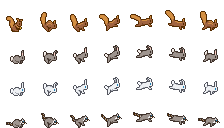
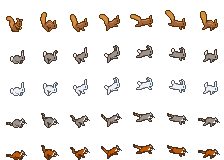
add red racoon

diff --git a/FogMod/FogMod.Utils/Tests/CritterzLogicTests.cs b/FogMod/FogMod.Utils/Tests/CritterzLogicTests.cs
@@ -146,6 +146,8 @@ public class CritterzLogicTests
     {
         Assert.Equal(Constants.SquirrelRow, Utils.CritterzLogic.PickSkin(0, false));
         Assert.Equal(Constants.RaccoonRow, Utils.CritterzLogic.PickSkin(2, true));
+        Assert.Equal(Constants.RedRaccoonRow, Utils.CritterzLogic.PickSkin(3, false));
+        Assert.Equal(Constants.RedRaccoonRow, Utils.CritterzLogic.PickSkin(3, true));
         Assert.Equal(Constants.WhiteBunnyRow, Utils.CritterzLogic.PickSkin(1, true));
         Assert.Equal(Constants.GreyBunnyRow, Utils.CritterzLogic.PickSkin(1, false));
     }
@@ -174,6 +176,9 @@ public class CritterzLogicTests
                 Assert.Contains(id, nuts);
             foreach (string id in Utils.CritterzLogic.RollLootToDrop(
                 Constants.RaccoonRow, seed % 2 == 0, new Random(seed)))
+                Assert.Contains(id, trash);
+            foreach (string id in Utils.CritterzLogic.RollLootToDrop(
+                Constants.RedRaccoonRow, seed % 2 == 0, new Random(seed)))
                 Assert.Contains(id, trash);
             foreach (string id in Utils.CritterzLogic.RollLootToDrop(99, false, new Random(seed)))
                 Assert.Contains(id, trash);

diff --git a/FogMod/FogMod.Utils/CritterzLogic.cs b/FogMod/FogMod.Utils/CritterzLogic.cs
@@ -113,13 +113,14 @@ public static class CritterzLogic
         return 0;
     }
 
-    // Skin only: squirrel, bunny (grey/white by season), or raccoon row.
+    // Skin only: squirrel, bunny (grey/white by season), raccoon, or red raccoon row.
     public static int PickSkin(int roll, bool isWinter)
     {
         return roll switch
         {
             0 => Constants.SquirrelRow,
             2 => Constants.RaccoonRow,
+            3 => Constants.RedRaccoonRow,
             _ => isWinter ? Constants.WhiteBunnyRow : Constants.GreyBunnyRow,
         };
     }
@@ -150,6 +151,7 @@ public static class CritterzLogic
                     loot.Add(nuts[rng.Next(nuts.Length)]);
                 break;
             case Constants.RaccoonRow:
+            case Constants.RedRaccoonRow:
             default:
                 string[] trash = { "168", "169", "170", "171", "172" };
                 for (int i = 0, n = rng.Next(0, maxCommons); i < n; i++)

diff --git a/FogMod/Constants.cs b/FogMod/Constants.cs
@@ -64,12 +64,13 @@ public static class Constants
 
     // Critterz constants (loop mirrors the grouse: hide, trigger, run, hide)
     public const string CritterzName = "Critterz";
-    // critterz.png rows, 7 frames each: squirrel, grey bunny, white bunny, raccoon.
+    // critterz.png rows, 7 frames each: squirrel, grey bunny, white bunny, raccoon, red raccoon.
     public const int CritterRowLength = 7;
     public const int SquirrelRow = 0;
     public const int GreyBunnyRow = 1;
     public const int WhiteBunnyRow = 2;
     public const int RaccoonRow = 3;
+    public const int RedRaccoonRow = 4;
     public const float CritterzRunSpeed = 360f;
     public const float CritterzZigZagAmplitudePx = 32f;
     public const string CritterzTurnAudioCueId = "cowboy_gopher";

diff --git a/FogMod/Critterz.cs b/FogMod/Critterz.cs
@@ -180,8 +180,8 @@ public partial class FogMod : Mod
             position: tile,
             salt: (int)Random.NextInt64()
         );
-        // Skin only: squirrel, bunny (grey/white by season), or raccoon row.
-        int skin = CritterzLogic.PickSkin(Game1.random.Next(3), location.IsWinterHere());
+        // Skin only: squirrel, bunny (grey/white by season), raccoon, or red raccoon row.
+        int skin = CritterzLogic.PickSkin(Game1.random.Next(4), location.IsWinterHere());
         Critterz newCritterz = new Critterz(
             critterzId: critterzId,
             location: location,

diff --git a/CHANGELOG.md b/CHANGELOG.md
@@ -8,7 +8,7 @@ and this project adheres to [Semantic Versioning](https://semver.org/spec/v2.0.0
 ## [Unreleased]
 
 ### Added
-- Critterz: shootable critters (squirrel, grey/white bunny, raccoon) hide in bushes, flush when a bush is shaken, hit, or used, then run to another bush. Toggle with the `EnableCritterz` option; flushing bursts can drop snacks, and kills drop skin-specific loot.
+- Critterz: shootable critters (squirrel, grey/white bunny, raccoon, red raccoon) hide in bushes, flush when a bush is shaken, hit, or used, then run to another bush. Toggle with the `EnableCritterz` option; flushing bursts can drop snacks, and kills drop skin-specific loot.
 - Native rabbits and squirrels no longer appear while Critterz are enabled. Other critters (butterflies, birds, other mods' critters) are unaffected.
 - `give_scattergun` console command: adds the Scattergun to your inventory.
 
